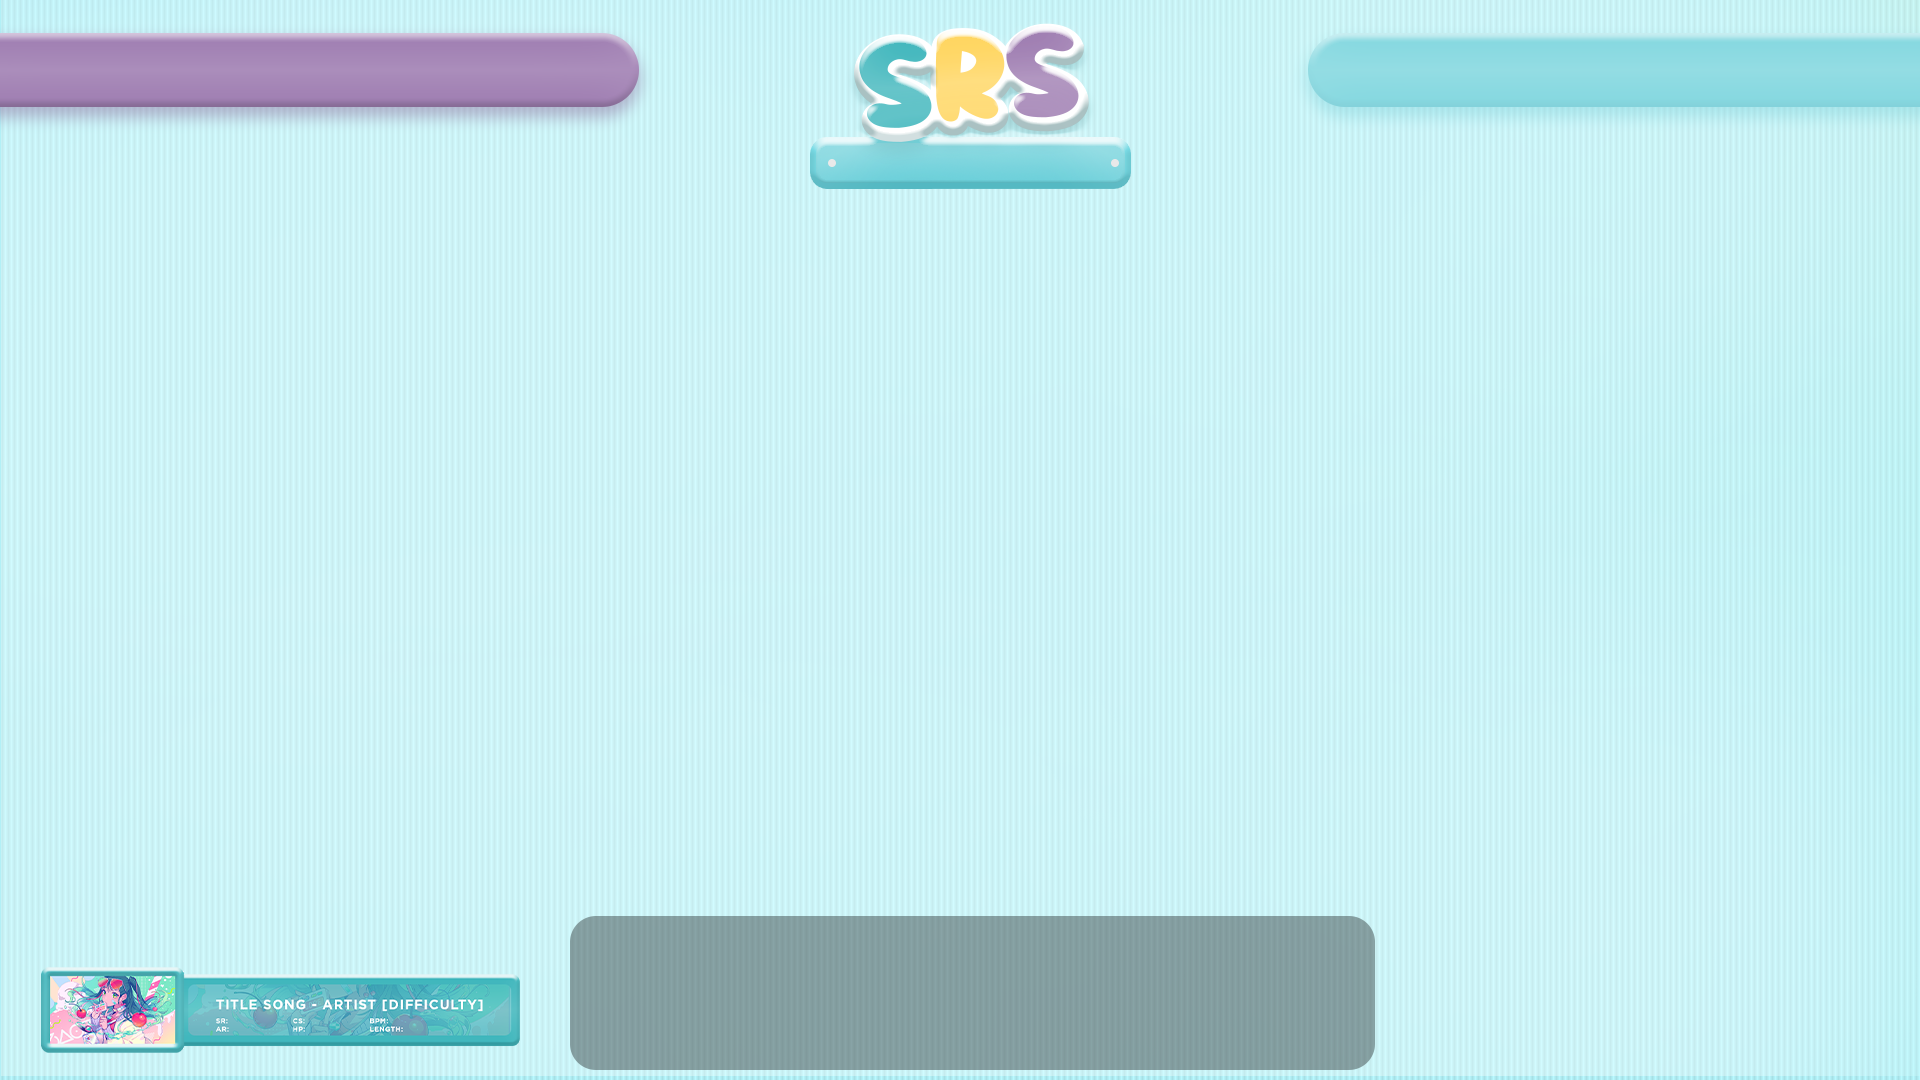
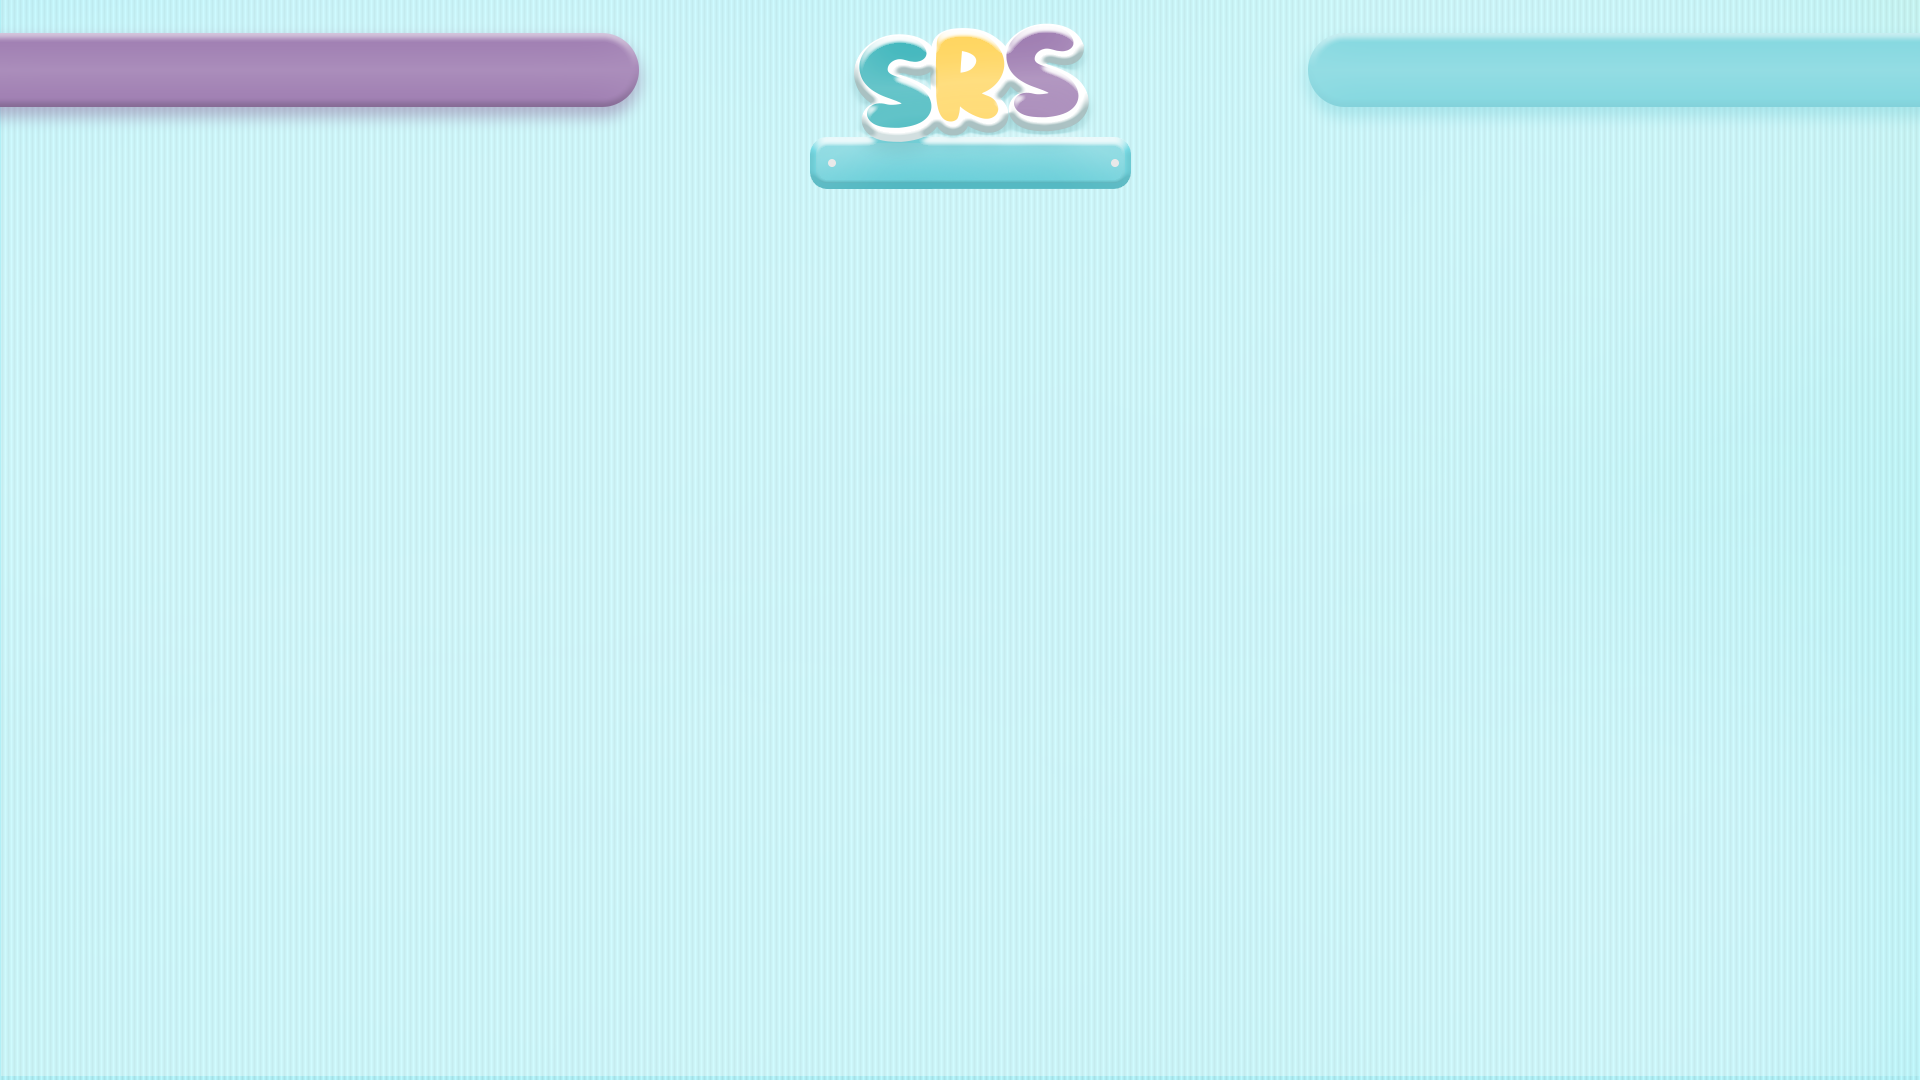
Add map pick events, automatic picking, automatic winner setting

Changed region(s): [[0.0, 0.825, 0.7188, 1.0]]

diff --git a/mappool/index.js b/mappool/index.js
@@ -7,6 +7,7 @@ let numberOfPicks = 12
 
 const purpleTeamPickCardsEl = document.getElementById("purpleTeamPickCards")
 const blueTeamPickCardsEl = document.getElementById("blueTeamPickCards")
+const allMapsButtonContainerEl = document.getElementById("allMapsButtonContainer")
 
 async function getMappool() {
     const response = await fetch("http://127.0.0.1:24050/SRS/_data/beatmaps.json")
@@ -34,16 +35,29 @@ async function getMappool() {
 
         const pickCardWinnerContainer = document.createElement("div")
         pickCardWinnerContainer.classList.add("pickCardWinnerContainer")
-        const pickCardWinnerImage = document.createElement("div")
+        const pickCardWinnerImage = document.createElement("img")
         pickCardWinnerImage.classList.add("pickCardWinnerImage")
         pickCardWinnerContainer.append(pickCardWinnerImage)
 
         const pickCardMod = document.createElement("div")
         pickCardMod.classList.add("pickCardMod")
+        if (i % 2 === 0) pickCardMod.classList.add("pickCardModPurple")
+        else pickCardMod.classList.add("pickCardModBlue")
 
         pickCard.append(pickCardBackgroundImage, pickCardImageContainer, pickCardWinnerContainer, pickCardMod)
         if (i % 2 === 0) purpleTeamPickCardsEl.append(pickCard)
         else blueTeamPickCardsEl.append(pickCard)
+    }
+
+    // Generate buttons
+    for (let i = 0 ; i < allBeatmaps.length - 1; i++) {
+        const mapsButton = document.createElement("button")
+        mapsButton.classList.add("mapsButton")
+        mapsButton.innerText = `${allBeatmaps[i].mod.toUpperCase()}${allBeatmaps[i].order}`
+        mapsButton.dataset.id = allBeatmaps[i].beatmapID
+        mapsButton.setAttribute("id", allBeatmaps[i].beatmapID)
+        mapsButton.addEventListener("click", mapClickEvent)
+        allMapsButtonContainerEl.append(mapsButton)
     }
 }
 getMappool()
@@ -74,6 +88,13 @@ let starVisible
 // Chat Display
 const chatDisplayEl = document.getElementById("chatDisplay")
 let chatLength = 0
+
+// Beatmap information
+let currentMapId, currentMapMd5
+
+// Set winner
+let ipcState
+let setWinnerAlready = false
 
 socket.onmessage = event => {
     const data = JSON.parse(event.data)
@@ -174,4 +195,131 @@ socket.onmessage = event => {
         chatLen = data.tourney.manager.chat.length;
         chatDisplayEl.scrollTop = chatDisplayEl.scrollHeight;
     }
+
+    // Beatmap stuff
+    if (currentMapId !== data.menu.bm.id || currentMapMd5 !== data.menu.bm.md5) {
+        currentMapId = data.menu.bm.id
+        currentMapMd5 = data.menu.bm.md5
+
+        const currentMap = findMapInMappool(currentMapId)
+        if (currentMap && currentAutopick && currentAction === "pick") {
+            document.getElementById(currentMapId).click()
+        }
+    }
+
+    // IPC State
+    if (ipcState !== data.tourney.manager.ipcState) {
+        ipcState = data.tourney.manager.ipcState
+        if (ipcState === 4) {
+            if (!setWinnerAlready) {
+                setWinnerAlready = true
+                let currentRedScore = 0
+                let currentBlueScore = 0
+                
+                for (let i = 0; i < data.tourney.ipcClients.length; i++) {
+                    let currentScore = 0
+                    currentScore = data.tourney.ipcClients[i].gameplay.score * (data.tourney.ipcClients[i].gameplay.mods.str.includes("EZ")? 1.75 : 1)
+                    if (data.tourney.ipcClients[i].team === "left") currentRedScore += currentScore
+                    else currentBlueScore += currentScore
+                }
+
+                if (currentRedScore > currentBlueScore) {
+                    currentPickTile.children[2].classList.add("pickCardWinnerPurple")
+                    currentPickTile.children[2].children[0].setAttribute("src", "static/popsicle-purple.png")
+                } else if (currentRedScore < currentBlueScore) {
+                    currentPickTile.children[2].classList.add("pickCardWinnerBlue")
+                    currentPickTile.children[2].children[0].setAttribute("src", "static/popsicle-blue.png")
+                }
+            }
+        } else {
+            setWinnerAlready = false
+        }
+    }
+}
+
+// Set next picker
+let currentActionTeam = 'red'
+let currentAction = 'pick'
+const nextPickerTextEl = document.getElementById("nextPickerText")
+function setNextAction(colour, action) {
+    currentActionTeam = colour
+    currentAction = action
+    nextPickerTextEl.innerText = `${colour} ${action}`
+}
+
+// Toggle autopick
+let currentAutopick = false
+const toggleAutopickTextEl = document.getElementById("toggleAutopickText")
+function toggleAutopick() {
+    currentAutopick = !currentAutopick
+    if (currentAutopick) toggleAutopickTextEl.innerText = "ON"
+    else toggleAutopickTextEl.innerText = "OFF"
+}
+
+// Map click event
+// ban cards
+const purpleTeamBanCardsEl = document.getElementById("purpleTeamBanCards")
+const blueTeamBanCardsEl = document.getElementById("blueTeamBanCards")
+let currentPickTile
+function mapClickEvent() {
+    // Get current map
+    let currentMapId = this.dataset.id
+    let currentMap = findMapInMappool(parseInt(currentMapId))
+
+    // Check if map has been banned or picked before
+    const allIdElements = document.querySelectorAll("[data-id]")
+    let mapFound = false
+    allIdElements.forEach(element => {
+        if (element.dataset.id == currentMapId && (element.dataset.action === "ban" || element.dataset.action === "pick")) {
+            mapFound = true
+            return
+        }   
+    })
+    if (mapFound) return
+
+    // Set a ban
+    if (currentAction === "ban") {
+        // Set current tile that we will be banning
+        let currentCardContainer
+        currentCardContainer = (currentActionTeam === "red")? purpleTeamBanCardsEl : blueTeamBanCardsEl
+
+        // Check if first tile has something
+        let currentTile
+        if (currentCardContainer.children[0].hasAttribute("data-id")) currentTile = currentCardContainer.children[1]
+        else currentTile = currentCardContainer.children[0]
+
+        // Set details for the ban
+        currentTile.children[1].style.backgroundImage = `url(${currentMap.imgURL})`
+        currentTile.dataset.id = this.dataset.id
+        currentTile.dataset.action = "ban"
+    }
+
+    // Set a pick
+    if (currentAction === "pick") {
+        // set current tiel that we will be piking
+        let currentCardContainer
+        currentCardContainer = (currentActionTeam === "red")? purpleTeamPickCardsEl : blueTeamPickCardsEl
+
+        // Check which tile has something
+        let currentTile
+        for (let i = 0; i < currentCardContainer.childElementCount; i++) {
+            if (currentCardContainer.children[i].hasAttribute("data-id")) continue
+            currentTile = currentCardContainer.children[i]
+            break
+        }
+        if (!currentTile) return
+
+        // Set details for the pick
+        currentTile.children[1].children[0].style.backgroundImage = `url(${currentMap.imgURL})`
+        currentTile.children[3].innerText = `${currentMap.mod.toUpperCase()}${currentMap.order}`
+        currentTile.children[3].style.opacity = 1
+        currentTile.dataset.id = this.dataset.id
+        currentTile.dataset.action = "pick"
+        currentPickTile = currentTile
+
+        setNextAction
+    }
+
+    if (currentActionTeam === "red") setNextAction("blue", currentAction)
+    else setNextAction("red", currentAction)
 }

diff --git a/mappool/style.css b/mappool/style.css
@@ -127,7 +127,65 @@
     position: absolute; left: 13px; top: 12px;
     width: 156px; height: 104px;
     background-size: cover;
-    background-image: url(https://assets.ppy.sh/beatmaps/292301/covers/cover.jpg);
     background-position: center;
     border-radius: 9px;
+}
+
+/* Nav Bar */
+#navbar {
+    position: absolute; left: 1920px; top: 0;
+    width: 250px; height: 1080px;
+    background-color: #c7ecef;
+    font-family: "Gotham"; font-weight: 700; 
+}
+/* Nav Bar Helpers */
+h1 {
+    width: inherit;
+    margin-left: 22px;
+    margin-bottom: 10px;
+}
+.navbarFullSizeButtons {
+    width: 200px; height: 40px;
+    margin-bottom: 10px;
+    font-family: "Gotham"; font-weight: 700; 
+    background-color: transparent;
+    border-radius: 20px;
+}
+.navbarFullSizeButtons:active {
+    background-color: black;
+    color: white;
+}
+/* Next Picker Section */
+#nextPickerSection {
+    padding-bottom: 20px;
+    border-bottom: 2px solid black;
+}
+#nextPickerText {
+    margin-left: 20px;
+    font-size: 32px;
+    margin-bottom: 20px;
+}
+#nextPickerButtonContainer {
+    display: flex;
+    align-items: center;
+    flex-direction: column;
+}
+/* Maps Section */
+#allMapsButtonContainer {
+    margin-top: 20px;
+    display: flex;
+    width: inherit;
+    flex-wrap: wrap;
+    justify-content: center;
+}
+.mapsButton {
+    width: 100px; height: 35px;
+    font-family: "Gotham"; font-weight: 700; 
+    margin: 5px;
+    border-radius: 20px;
+    background-color: transparent;
+}
+.mapsButton:Active {
+    background-color: black;
+    color: white;
 }

diff --git a/mappool/index.html b/mappool/index.html
@@ -54,6 +54,24 @@
         <div id="chatDisplay"></div>
     </div>
 
+    <!-- Nav Bar -->
+    <section id="navbar">
+        <section id="nextPickerSection">
+            <h1>Next Action:</h1>
+            <div id="nextPickerText">red pick</div>
+            <div id="nextPickerButtonContainer">
+                <button class="navbarFullSizeButtons" onclick="setNextAction('red', 'ban')">Red Ban</button>
+                <button class="navbarFullSizeButtons" onclick="setNextAction('blue', 'ban')">Blue Ban</button>
+                <button class="navbarFullSizeButtons" onclick="setNextAction('red', 'pick')">Red Pick</button>
+                <button class="navbarFullSizeButtons" onclick="setNextAction('blue', 'pick')">Blue Pick</button>
+                <button class="navbarFullSizeButtons" onclick="toggleAutopick()">Toggle Autopick: <span id="toggleAutopickText">OFF</span></button>
+            </div>
+        </section>
+        <section id="mapSelection">
+            <div id="allMapsButtonContainer"></div>
+        </section>
+    </section>
+
     <script src="index.js"></script>
 </body>
 </html>
